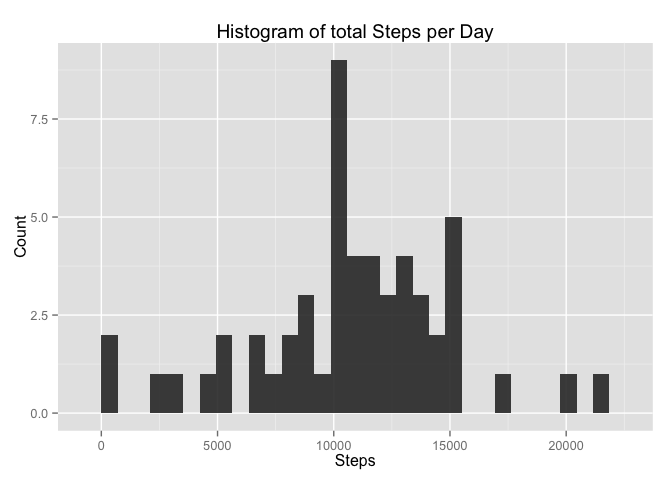
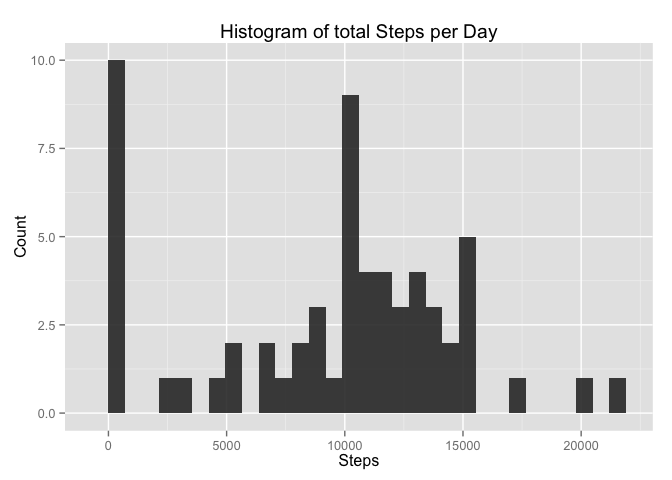
Added an na.rm-statement.

diff --git a/PA1_template.html b/PA1_template.html
@@ -81,20 +81,20 @@ act_df &lt;- read.csv(file = &quot;activity.csv&quot;)</code></pre>
 <pre class="r"><code>library(dplyr)
 dailySteps &lt;- act_df %&gt;% 
     group_by(date) %&gt;%
-    summarize(totSteps = sum(steps))
+    summarize(totSteps = sum(steps, na.rm = TRUE))
 
 dailySteps</code></pre>
 <pre><code>## Source: local data frame [61 x 2]
 ## 
 ##          date totSteps
-## 1  2012-10-01       NA
+## 1  2012-10-01        0
 ## 2  2012-10-02      126
 ## 3  2012-10-03    11352
 ## 4  2012-10-04    12116
 ## 5  2012-10-05    13294
 ## 6  2012-10-06    15420
 ## 7  2012-10-07    11015
-## 8  2012-10-08       NA
+## 8  2012-10-08        0
 ## 9  2012-10-09    12811
 ## 10 2012-10-10     9900
 ## ..        ...      ...</code></pre>
@@ -107,12 +107,12 @@ qplot(dailySteps$totSteps,
       ylab = &quot;Count&quot;,
       alpha=I(.9)
       )</code></pre>
[2 lines of base64/hex data omitted]
 <p><strong>3. Calculate and report the mean and median of the total number of steps taken per day</strong></p>
 <pre class="r"><code>mean(dailySteps$totSteps, na.rm = T)</code></pre>
-<pre><code>## [1] 10766.19</code></pre>
+<pre><code>## [1] 9354.23</code></pre>
 <pre class="r"><code>median(dailySteps$totSteps, na.rm = T)</code></pre>
-<pre><code>## [1] 10765</code></pre>
+<pre><code>## [1] 10395</code></pre>
 </div>
 <div id="what-is-the-average-daily-activity-pattern" class="section level2">
 <h2>What is the average daily activity pattern?</h2>

diff --git a/PA1_template.md b/PA1_template.md
@@ -26,7 +26,7 @@ For this part of the assignment, you can ignore the missing values in the datase
 library(dplyr)
 dailySteps <- act_df %>% 
     group_by(date) %>%
-    summarize(totSteps = sum(steps))
+    summarize(totSteps = sum(steps, na.rm = TRUE))
 
 dailySteps
 ```
@@ -35,14 +35,14 @@ dailySteps
 ## Source: local data frame [61 x 2]
 ## 
 ##          date totSteps
-## 1  2012-10-01       NA
+## 1  2012-10-01        0
 ## 2  2012-10-02      126
 ## 3  2012-10-03    11352
 ## 4  2012-10-04    12116
 ## 5  2012-10-05    13294
 ## 6  2012-10-06    15420
 ## 7  2012-10-07    11015
-## 8  2012-10-08       NA
+## 8  2012-10-08        0
 ## 9  2012-10-09    12811
 ## 10 2012-10-10     9900
 ## ..        ...      ...
@@ -70,7 +70,7 @@ mean(dailySteps$totSteps, na.rm = T)
 ```
 
 ```
-## [1] 10766.19
+## [1] 9354.23
 ```
 
 ```r
@@ -78,7 +78,7 @@ median(dailySteps$totSteps, na.rm = T)
 ```
 
 ```
-## [1] 10765
+## [1] 10395
 ```
 
 ## What is the average daily activity pattern?
